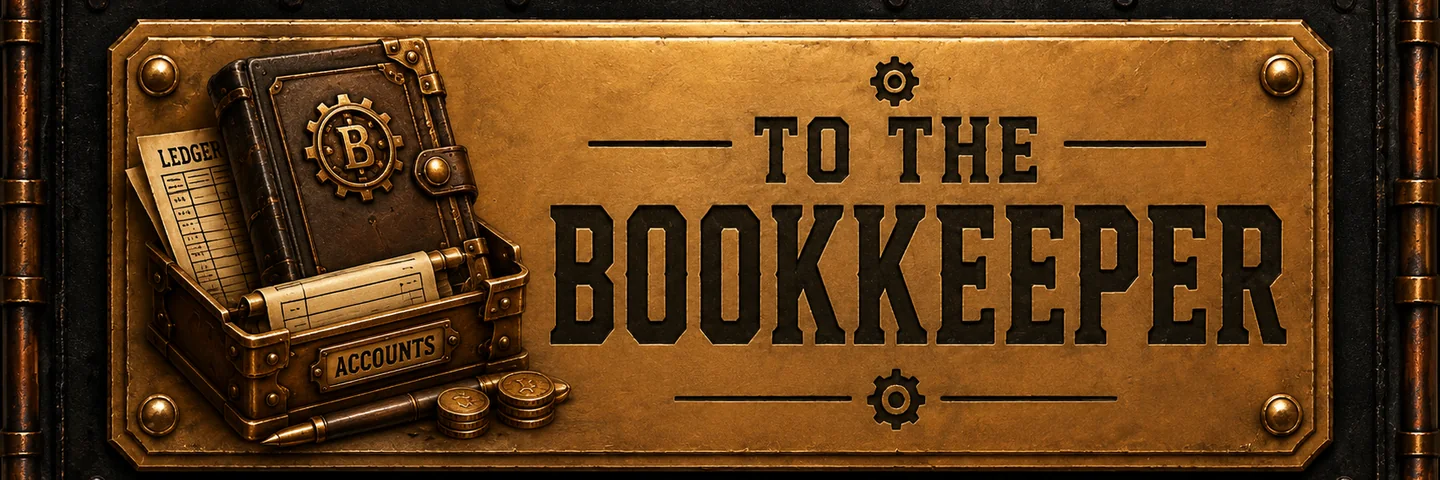
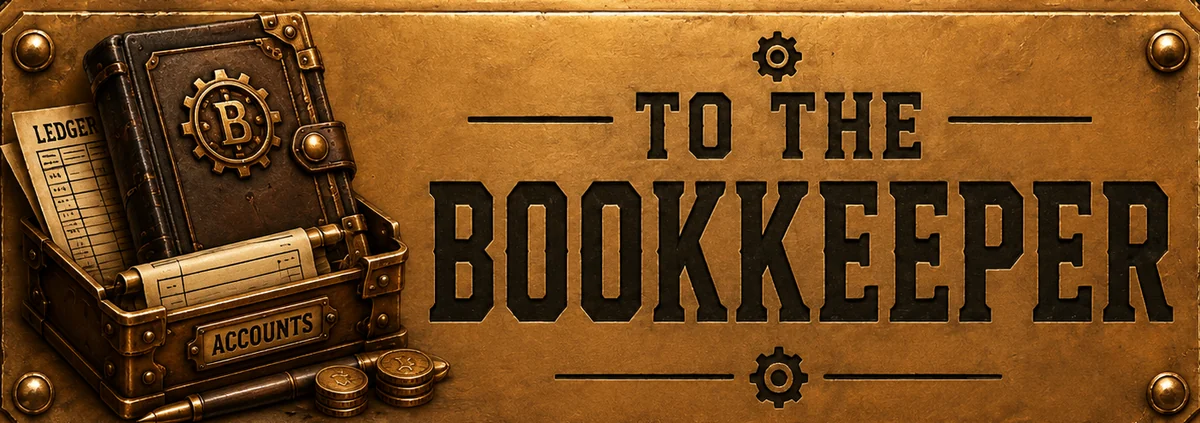
v6.01 — the bookkeeper plate: gold only, and smaller than the grinder
Eric: 'the to the bookkeeper button can be cut out so its just the gold
plate and make it smaller than the grinder button.' Re-cropped his art
to the plate itself — no pipe frame, no bezel, all four rivets and the
ledger box intact — and the button now sits centred at 222x78 against
the grinder's 159x83. Shorter than the big plates, which is the right
weight for a button used a few times a day instead of fifty. The .noimg
fallback still goes full width so the spelled-out button stays thumbable.

Claude-Session: https://claude.ai/code/session_01Kpz1W6CjRAd3h98vk7jjgZ

diff --git a/index.html b/index.html
@@ -1275,12 +1275,13 @@
   .plate-btn.noimg { background: var(--accent); color: var(--accent-ink); padding: 13px 10px; }
   .plate-btn.noimg img { display: none; }
   .plate-btn.noimg .plate-txt { display: inline; font-weight: 700; font-size: 15px; }
-  /* 📗 v5.97 — Eric's own brass plate for the bookkeeper. Long left to right, short top to
-     bottom, like the button it replaces: the art is 3:1, the same banner shape as the
-     clock-out plate. If the art ever fails to load, .noimg puts the spelled-out gold
-     button straight back — and the words live under it either way. */
-  .plate-btn--bkk { display: block; width: 100%; flex: none; margin-top: 8px; }
-  .plate-btn--bkk.noimg { min-height: 48px; font-size: 14px; }
+  /* 📗 v6.01 — the bookkeeper plate, cut down to the gold plate itself: no pipe frame, no
+     bezel. Eric: "make it smaller than the grinder button" — so it sits centred and
+     narrower, shorter than the two big plates above it, which is the right weight for a
+     button used a few times a day instead of fifty. If the art ever fails to load, .noimg
+     puts the spelled-out gold button back at full width. */
+  .plate-btn--bkk { display: block; width: 68%; max-width: 240px; flex: none; margin: 8px auto 0; }
+  .plate-btn--bkk.noimg { width: 100%; max-width: none; min-height: 48px; font-size: 14px; }
   #bkkHint { margin: 4px 0 0; text-align: center; }
   .plate-btn--bkk.noimg + #bkkHint { display: none; } /* the fallback button already says it */
   /* 🔗 v5.39 — the two setup shortcuts. Temporary by design; one row, thumb-sized, gold plate. */
@@ -3137,7 +3138,7 @@
 
   <!-- 💬 v5.59 — the feedback square moved UP into the running log's chip row (Eric: "merge
        those two... so that I see app feedback"). Nothing at the bottom of the page any more. -->
-  <footer>v6.00 · Boiler Room — syncs to Dropbox / Clore DayLog when connected (⚙ Setup). Not connected yet? Entries live in this page only — Export CSV to keep them.</footer>
+  <footer>v6.01 · Boiler Room — syncs to Dropbox / Clore DayLog when connected (⚙ Setup). Not connected yet? Entries live in this page only — Export CSV to keep them.</footer>
 </div>
 
 <style id="tcgCss">
